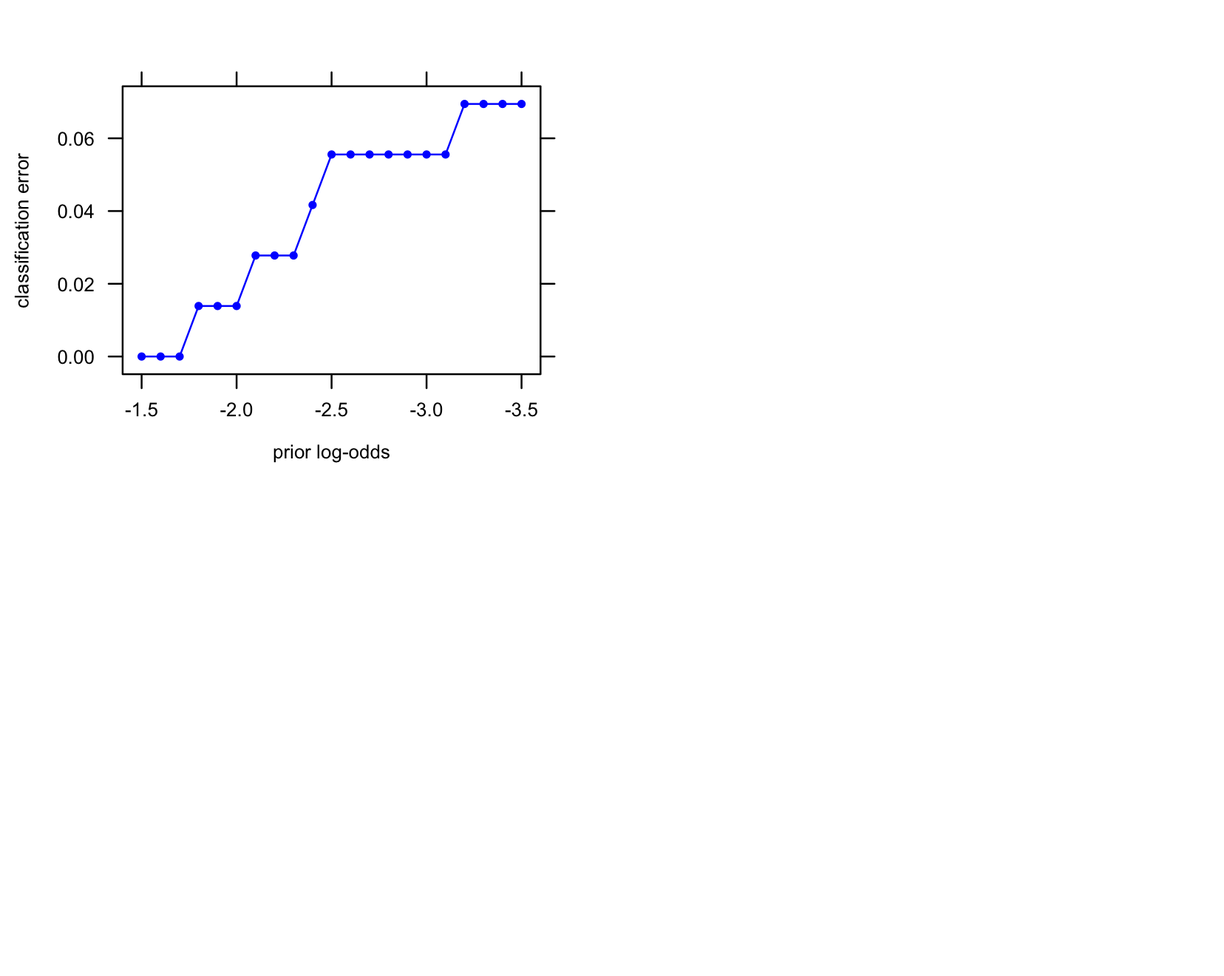
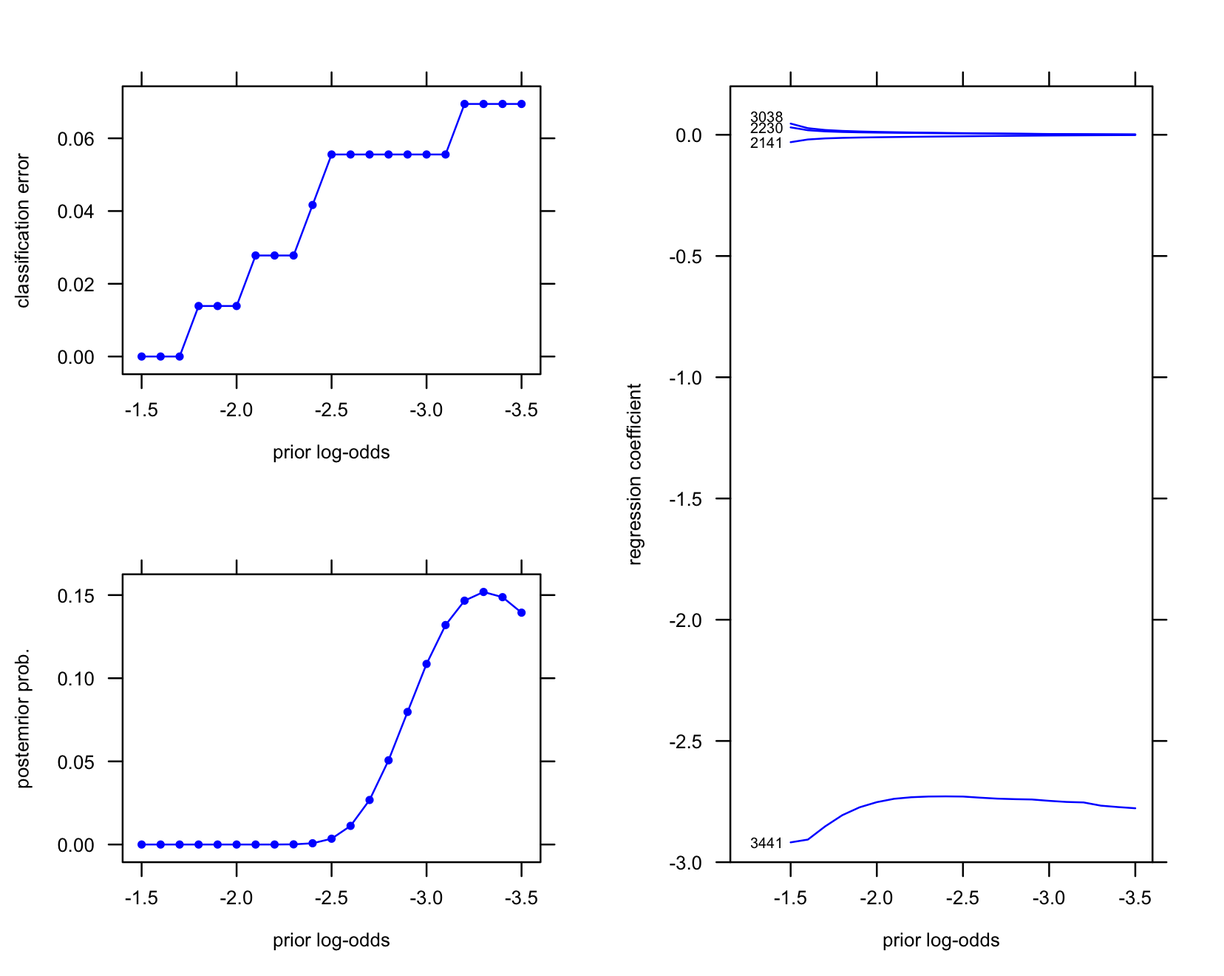
Revised R package README; updated pkgdown docs.
Former-commit-id: 78b0ad3b4a93aca786200dbd283432f8c50e1f9a

diff --git a/varbvs-R/docs/articles/leukemia.html b/varbvs-R/docs/articles/leukemia.html
@@ -56,34 +56,27 @@
     <div class="page-header toc-ignore">
       <h1>Comparison of glmnet and varbvs in Leukemia data set</h1>
             
-            <h4 class="date">2017-04-04</h4>
+            <h4 class="date">2017-04-30</h4>
           </div>
 
     
     
 <div class="contents">
-<p>This vignette demonstrates application of <strong>glmnet</strong> and <strong>varbvs</strong> to the Leukemia data set. The main aim of this script is to illustrate some of the different properties of Bayesian variable selection and penalized sparse regression (as implemented by <strong>varbvs</strong> and <strong>glmnet</strong>, respectively). This script also reproduces the results and graphs presented in the first example of a forthcoming paper (Carbonetto <em>et al</em>, 2016).</p>
+<p>This vignette demonstrates application of <strong>glmnet</strong> and <strong>varbvs</strong> to the Leukemia data set. The main aim of this script is to illustrate some of the different properties of Bayesian variable selection and penalized sparse regression (as implemented by <strong>varbvs</strong> and <strong>glmnet</strong>, respectively).</p>
 <p>We use the preprocessed data of Dettling (2004) retrieved from the supplementary materials accompanying Friedman <em>et al</em> (2010). The data are represented as a 72 x 3,571 matrix of gene expression values (variable <code>X</code>), and a vector of 72 binary disease outcomes (variable <code>y</code>).</p>
-<div id="references" class="section level3">
-<h3 class="hasAnchor">
-<a href="#references" class="anchor"></a>References</h3>
-<p>Carbonetto, P., <em>et al</em> (2016) Fast variable selection for genome-wide association studies and other large-scale regression applications. <em>Forthcoming</em>.</p>
-<p>Dettling, M. (2004). BagBoosting for tumor classification with gene expression data. <em>Bioinformatics</em> <strong>20</strong>, 3583–3593.</p>
-<p>Friedman, J., Hastie, T., Tibshirani, R. (2010) Regularization paths for generalized linear models via coordinate descent. <em>Journal of Statistical Software</em> <strong>33</strong>, 1–22.</p>
-</div>
 <div id="vignette-parameters" class="section level2">
 <h2 class="hasAnchor">
 <a href="#vignette-parameters" class="anchor"></a>Vignette parameters</h2>
-<p>Begin by loading a few packages into the R environment.</p>
+<p>Begin by loadingthese packages into your R environment.</p>
 <div class="sourceCode"><pre class="sourceCode r"><code class="sourceCode r"><span class="kw">library</span>(lattice)
 <span class="kw">library</span>(latticeExtra)
 <span class="kw">library</span>(glmnet)
 <span class="kw">library</span>(varbvs)</code></pre></div>
 <p>Next, specify settings that control the data analyses.</p>
 <div class="sourceCode"><pre class="sourceCode r"><code class="sourceCode r"><span class="co"># glmnet settings.</span>
-nfolds &lt;-<span class="st"> </span><span class="dv">20</span>                   <span class="co"># Number of cross-validation folds.</span>
-alpha  &lt;-<span class="st"> </span><span class="fl">0.95</span>                 <span class="co"># Elastic net mixing parameter.</span>
-lambda &lt;-<span class="st"> </span><span class="dv">10</span>^(<span class="kw">seq</span>(-<span class="dv">2</span>,<span class="dv">0</span>,<span class="fl">0.05</span>))  <span class="co"># Lambda sequence.</span>
+nfolds &lt;-<span class="st"> </span><span class="dv">20</span>                    <span class="co"># Number of cross-validation folds.</span>
+alpha  &lt;-<span class="st"> </span><span class="fl">0.95</span>                  <span class="co"># Elastic net mixing parameter.</span>
+lambda &lt;-<span class="st"> </span><span class="dv">10</span>^(<span class="kw">seq</span>(<span class="dv">0</span>,-<span class="dv">2</span>,-<span class="fl">0.05</span>))  <span class="co"># Lambda sequence.</span>
 
 <span class="co"># varbvs settings.</span>
 logodds &lt;-<span class="st"> </span><span class="kw">seq</span>(-<span class="fl">3.5</span>,-<span class="fl">1.5</span>,<span class="fl">0.1</span>)  <span class="co"># Candidate prior log-odds settings.</span>
@@ -107,7 +100,7 @@ y &lt;-<span class="st"> </span>leukemia$y
 r &lt;-<span class="st"> </span><span class="kw">system.time</span>(fit.glmnet &lt;-
 <span class="st">       </span><span class="kw">glmnet</span>(X,y,<span class="dt">family =</span> <span class="st">"binomial"</span>,<span class="dt">lambda =</span> lambda,<span class="dt">alpha =</span> alpha))
 <span class="kw">cat</span>(<span class="kw">sprintf</span>(<span class="st">"Model fitting took %0.2f seconds.</span><span class="ch">\n</span><span class="st">"</span>,r[<span class="st">"elapsed"</span>]))
-<span class="co"># Model fitting took 0.08 seconds.</span>
+<span class="co"># Model fitting took 0.09 seconds.</span>
 
 <span class="co"># This is the cross-validation step.</span>
 r &lt;-<span class="st"> </span><span class="kw">system.time</span>(out.cv.glmnet &lt;-
@@ -115,7 +108,7 @@ r &lt;-<span class="st"> </span><span class="kw">system.time</span>(out.cv.glmne
                  <span class="dt">alpha =</span> alpha,<span class="dt">nfolds =</span> nfolds,<span class="dt">lambda =</span> lambda))
 lambda &lt;-<span class="st"> </span>out.cv.glmnet$lambda
 <span class="kw">cat</span>(<span class="kw">sprintf</span>(<span class="st">"Cross-validation took %0.2f seconds.</span><span class="ch">\n</span><span class="st">"</span>,r[<span class="st">"elapsed"</span>]))
-<span class="co"># Cross-validation took 2.37 seconds.</span>
+<span class="co"># Cross-validation took 3.85 seconds.</span>
 
 <span class="co"># Choose the largest value of lambda that is within 1 standard error</span>
 <span class="co"># of the smallest misclassification error.</span>
@@ -222,7 +215,7 @@ Y       &lt;-<span class="st"> </span><span class="kw">predict</span>(fit.glmnet
 <div class="sourceCode"><pre class="sourceCode r"><code class="sourceCode r">r &lt;-<span class="st"> </span><span class="kw">system.time</span>(fit.varbvs &lt;-
 <span class="st">       </span><span class="kw"><a href="../reference/varbvs.html">varbvs</a></span>(X,<span class="ot">NULL</span>,y,<span class="st">"binomial"</span>,<span class="dt">logodds =</span> logodds,<span class="dt">sa =</span> sa,<span class="dt">verbose =</span> <span class="ot">FALSE</span>))
 <span class="kw">cat</span>(<span class="kw">sprintf</span>(<span class="st">"Model fitting took %0.2f seconds.</span><span class="ch">\n</span><span class="st">"</span>,r[<span class="st">"elapsed"</span>]))
-<span class="co"># Model fitting took 27.78 seconds.</span></code></pre></div>
+<span class="co"># Model fitting took 40.95 seconds.</span></code></pre></div>
 <p>Compute the normalized importance weights and the posterior inclusion probabilities averaged over the hyperparameter settings.</p>
 <div class="sourceCode"><pre class="sourceCode r"><code class="sourceCode r">w   &lt;-<span class="st"> </span><span class="kw"><a href="../reference/normalizelogweights.html">normalizelogweights</a></span>(fit.varbvs$logw)
 pip &lt;-<span class="st"> </span><span class="kw">c</span>(fit.varbvs$alpha %*%<span class="st"> </span>w)</code></pre></div>
@@ -263,61 +256,49 @@ for (i in <span class="dv">1</span>:m) {
              <span class="dt">scales =</span> <span class="kw">list</span>(<span class="dt">x =</span> <span class="kw">list</span>(<span class="dt">limits =</span> <span class="kw">c</span>(-<span class="fl">1.4</span>,-<span class="fl">3.6</span>)))) +
 <span class="st">      </span><span class="kw">as.layer</span>(<span class="kw">xyplot</span>(y ~<span class="st"> </span>x,<span class="kw">data.frame</span>(<span class="dt">x =</span> logodds,<span class="dt">y =</span> err),
                       <span class="dt">col =</span> <span class="st">"blue"</span>,<span class="dt">pch =</span> <span class="dv">20</span>,<span class="dt">cex =</span> <span class="fl">0.65</span>)),
-      <span class="dt">split =</span> <span class="kw">c</span>(<span class="dv">1</span>,<span class="dv">1</span>,<span class="dv">2</span>,<span class="dv">2</span>),<span class="dt">more =</span> <span class="ot">TRUE</span>)</code></pre></div>
-<div class="figure" style="text-align: center">
-<img src="leukemia_files/figure-html/unnamed-chunk-11-1.png" alt="&amp;nbsp;" width="828"><p class="caption">
- 
-</p>
-</div>
-<div class="sourceCode"><pre class="sourceCode r"><code class="sourceCode r"><span class="co"># Plot regression coefficients.</span>
+      <span class="dt">split =</span> <span class="kw">c</span>(<span class="dv">1</span>,<span class="dv">1</span>,<span class="dv">2</span>,<span class="dv">2</span>),<span class="dt">more =</span> <span class="ot">TRUE</span>)
+
+<span class="co"># Plot regression coefficients.</span>
 n     &lt;-<span class="st"> </span><span class="dv">4</span>
 m     &lt;-<span class="st"> </span><span class="kw">length</span>(logodds)
 vars  &lt;-<span class="st"> </span><span class="kw">order</span>(pip,<span class="dt">decreasing =</span> <span class="ot">TRUE</span>)[<span class="dv">1</span>:n]
 mu    &lt;-<span class="st"> </span><span class="kw">t</span>(fit.varbvs$alpha[vars,] *<span class="st"> </span>fit.varbvs$mu[vars,])
-<span class="kw">print</span>(<span class="kw">xyplot</span>(y ~<span class="st"> </span>x,<span class="kw">data.frame</span>(<span class="dt">x =</span> logodds,<span class="dt">y =</span> (mu[,<span class="dv">1</span>])),
+ly    &lt;-<span class="st"> </span>mu[m,]
+ly[<span class="dv">2</span>] &lt;-<span class="st"> </span><span class="fl">0.075</span>
+r &lt;-<span class="st"> </span><span class="kw">xyplot</span>(y ~<span class="st"> </span>x,<span class="kw">data.frame</span>(<span class="dt">x =</span> logodds,<span class="dt">y =</span> (mu[,<span class="dv">1</span>])),
              <span class="dt">type =</span> <span class="st">"l"</span>,<span class="dt">col =</span> <span class="st">"blue"</span>,<span class="dt">xlab =</span> <span class="st">"prior log-odds"</span>,
              <span class="dt">ylab =</span> <span class="st">"regression coefficient"</span>,
              <span class="dt">scales =</span> <span class="kw">list</span>(<span class="dt">x =</span> <span class="kw">list</span>(<span class="dt">limits =</span> <span class="kw">c</span>(-<span class="fl">1.15</span>,-<span class="fl">3.6</span>)),
-                           <span class="dt">y =</span> <span class="kw">list</span>(<span class="dt">limits=</span><span class="kw">c</span>(-<span class="dv">3</span>,-<span class="fl">2.5</span>),<span class="dt">at=</span><span class="kw">seq</span>(-<span class="dv">3</span>,-<span class="fl">2.5</span>,<span class="fl">0.25</span>))),
+                            <span class="dt">y =</span> <span class="kw">list</span>(<span class="dt">limits=</span><span class="kw">c</span>(-<span class="dv">3</span>,<span class="fl">0.2</span>),<span class="dt">at=</span><span class="kw">seq</span>(-<span class="dv">3</span>,<span class="fl">0.2</span>,<span class="fl">0.5</span>))),
              <span class="dt">panel =</span> function(x, y, ...) {
                <span class="kw">panel.xyplot</span>(x,y,...);
-               <span class="kw">ltext</span>(<span class="dt">x =</span> -<span class="fl">1.5</span>,<span class="dt">y =</span> mu[m,<span class="dv">1</span>],
-                     <span class="dt">labels =</span> vars[<span class="dv">1</span>],<span class="dt">pos =</span> <span class="dv">2</span>,
-                     <span class="dt">offset =</span> <span class="fl">0.5</span>,<span class="dt">cex =</span> <span class="fl">0.5</span>)
-               }),
-      <span class="dt">split =</span> <span class="kw">c</span>(<span class="dv">2</span>,<span class="dv">2</span>,<span class="dv">2</span>,<span class="dv">2</span>),<span class="dt">more =</span> <span class="ot">TRUE</span>)
-
-r    &lt;-<span class="st"> </span><span class="kw">xyplot</span>(y ~<span class="st"> </span>x,<span class="kw">data.frame</span>(<span class="dt">x =</span> logodds,<span class="dt">y =</span> (mu[,<span class="dv">2</span>])),
-               <span class="dt">type =</span> <span class="st">"l"</span>,<span class="dt">col =</span> <span class="st">"blue"</span>,<span class="dt">xlab =</span> <span class="st">"prior log-odds"</span>,
-               <span class="dt">ylab =</span> <span class="st">"regression coefficient"</span>,
-               <span class="dt">scales =</span> <span class="kw">list</span>(<span class="dt">x =</span> <span class="kw">list</span>(<span class="dt">limits =</span> <span class="kw">c</span>(-<span class="fl">1.15</span>,-<span class="fl">3.6</span>)),
-                             <span class="dt">y =</span> <span class="kw">list</span>(<span class="dt">limits =</span> <span class="kw">c</span>(-<span class="fl">0.06</span>,<span class="fl">0.06</span>),
-                                      <span class="dt">at =</span> <span class="kw">c</span>(-<span class="fl">0.06</span>,<span class="dv">0</span>,<span class="fl">0.06</span>))),
-               <span class="dt">panel =</span> function(x, y, ...) {
-                 <span class="kw">panel.xyplot</span>(x,y,...);
-                 <span class="kw">ltext</span>(<span class="dt">x =</span> -<span class="fl">1.5</span>,<span class="dt">y =</span> mu[m,],
-                       <span class="dt">labels =</span> vars,<span class="dt">pos =</span> <span class="dv">2</span>,
-                       <span class="dt">offset =</span> <span class="fl">0.5</span>,<span class="dt">cex =</span> <span class="fl">0.5</span>)
-               })
-for (i in <span class="dv">3</span>:n) {
+               <span class="kw">ltext</span>(<span class="dt">x =</span> -<span class="fl">1.5</span>,<span class="dt">y =</span> ly,<span class="dt">labels =</span> vars,<span class="dt">pos =</span> <span class="dv">2</span>,<span class="dt">offset =</span> <span class="fl">0.5</span>,
+                     <span class="dt">cex =</span> <span class="fl">0.5</span>)
+             })
+for (i in <span class="dv">2</span>:n)
   r &lt;-<span class="st"> </span>r +<span class="st"> </span><span class="kw">as.layer</span>(<span class="kw">xyplot</span>(y ~<span class="st"> </span>x,
                            <span class="kw">data.frame</span>(<span class="dt">x =</span> logodds,<span class="dt">y =</span> mu[,i]),
                            <span class="dt">type =</span> <span class="st">"l"</span>,<span class="dt">col =</span> <span class="st">"blue"</span>))
-}
-<span class="kw">print</span>(r,<span class="dt">split =</span> <span class="kw">c</span>(<span class="dv">2</span>,<span class="dv">1</span>,<span class="dv">2</span>,<span class="dv">2</span>),<span class="dt">more =</span> <span class="ot">TRUE</span>)
+<span class="kw">print</span>(r,<span class="dt">split =</span> <span class="kw">c</span>(<span class="dv">2</span>,<span class="dv">1</span>,<span class="dv">2</span>,<span class="dv">1</span>),<span class="dt">more =</span> <span class="ot">TRUE</span>)
 
-<span class="co"># Plot density of "prior log-odds"" hyperparameter.</span>
+<span class="co"># Plot density of "prior log-odds" hyperparameter.</span>
 <span class="kw">names</span>(w) &lt;-<span class="st"> </span>logodds
 <span class="kw">print</span>(<span class="kw">xyplot</span>(y ~<span class="st"> </span>x,<span class="kw">data.frame</span>(<span class="dt">x =</span> logodds,<span class="dt">y =</span> w),<span class="dt">type =</span> <span class="st">"l"</span>,<span class="dt">col =</span> <span class="st">"blue"</span>,
-             <span class="dt">xlab =</span> <span class="st">"prior log-odds"</span>,<span class="dt">ylab =</span> <span class="st">"posterior prob."</span>,
+             <span class="dt">xlab =</span> <span class="st">"prior log-odds"</span>,<span class="dt">ylab =</span> <span class="st">"postemrior prob."</span>,
              <span class="dt">scales =</span> <span class="kw">list</span>(<span class="dt">x =</span> <span class="kw">list</span>(<span class="dt">limits =</span> <span class="kw">c</span>(-<span class="fl">1.4</span>,-<span class="fl">3.6</span>)))) +
 <span class="st">      </span><span class="kw">as.layer</span>(<span class="kw">xyplot</span>(y ~<span class="st"> </span>x,<span class="kw">data.frame</span>(<span class="dt">x =</span> logodds,<span class="dt">y =</span> w),
                       <span class="dt">col =</span> <span class="st">"blue"</span>,<span class="dt">pch =</span> <span class="dv">20</span>,<span class="dt">cex =</span> <span class="fl">0.65</span>)),
       <span class="dt">split =</span> <span class="kw">c</span>(<span class="dv">1</span>,<span class="dv">2</span>,<span class="dv">2</span>,<span class="dv">2</span>),<span class="dt">more =</span> <span class="ot">FALSE</span>)</code></pre></div>
 <div class="figure" style="text-align: center">
-<img src="leukemia_files/figure-html/unnamed-chunk-12-1.png" alt="&amp;nbsp;" width="828"><p class="caption">
+<img src="leukemia_files/figure-html/unnamed-chunk-11-1.png" alt="&amp;nbsp;" width="828"><p class="caption">
  
 </p>
+</div>
+<div id="references" class="section level3">
+<h3 class="hasAnchor">
+<a href="#references" class="anchor"></a>References</h3>
+<p>Dettling, M. (2004). BagBoosting for tumor classification with gene expression data. <em>Bioinformatics</em> <strong>20</strong>, 3583–3593.</p>
+<p>Friedman, J., Hastie, T., Tibshirani, R. (2010) Regularization paths for generalized linear models via coordinate descent. <em>Journal of Statistical Software</em> <strong>33</strong>, 1–22.</p>
 </div>
 </div>
 </div>

diff --git a/varbvs-R/docs/index.html b/varbvs-R/docs/index.html
@@ -53,32 +53,27 @@
       
       </header><div class="row">
   <div class="contents col-md-9">
-    <div id="large-scale-bayesian-variable-selection-for-r" class="section level1">
+    <div id="varbvs-large-scale-bayesian-variable-selection-in-r" class="section level1">
 <div class="page-header"><h1 class="hasAnchor">
-<a href="#large-scale-bayesian-variable-selection-for-r" class="anchor"></a>Large-scale Bayesian variable selection for R</h1></div>
+<a href="#varbvs-large-scale-bayesian-variable-selection-in-r" class="anchor"></a>varbvs: large-scale Bayesian variable selection in R</h1></div>
 
-<div id="overview" class="section level3">
-<h3 class="hasAnchor">
-<a href="#overview" class="anchor"></a>Overview</h3>
-<p>We introduce <em>varbvs</em>, an R package for analysis of large-scale data sets using Bayesian variable selection methods. To facilitate application of Bayesian variable selection to a range of problems, the <em>varbvs</em> interface hides most of the complexities of modeling and optimization, while also providing many options for adaptation to range of applications. The <em>varbvs</em> software has been used to implement Bayesian variable selection for large problems with over a million variables and thousands of samples, including analysis of massive genome-wide data sets.</p>
-<p>The R package been tested by <a href="https://travis-ci.org/pcarbo/varbvs.svg?branch=master">Travis CI</a>, and the tests’ code coverage has been assessed by <a href="https://codecov.io/gh/pcarbo/varbvs">Codecov</a>.</p>
-</div>
+<p>See also the <a href="https://pcarbo.github.io/varbvs/varbvs-R/docs">varbvs R package website</a> generated using <a href="http://hadley.github.io/pkgdown">pkgdown</a>.</p>
 <div id="citing-varbvs" class="section level3">
 <h3 class="hasAnchor">
 <a href="#citing-varbvs" class="anchor"></a>Citing varbvs</h3>
 <p>If you find that this software is useful for your research project, please cite our paper:</p>
-<p>Carbonetto, P., and Stephens, M. (2012). Scalable variational inference for Bayesian variable selection in regression, and its accuracy in genetic association studies. <em>Bayesian Analysis</em> <strong>7</strong>, 73-108.</p>
+<p>Carbonetto, P. and Stephens, M. (2012). Scalable variational inference for Bayesian variable selection in regression, and its accuracy in genetic association studies. <em>Bayesian Analysis</em> <strong>7</strong>, 73-108.</p>
 </div>
 <div id="license" class="section level3">
 <h3 class="hasAnchor">
 <a href="#license" class="anchor"></a>License</h3>
-<p>Copyright (c) 2012-2016, Peter Carbonetto.</p>
+<p>Copyright (c) 2012-2017, Peter Carbonetto.</p>
 <p>The <em>varbvs</em> source code repository by <a href="http://github.com/pcarbo">Peter Carbonetto</a> is free software: you can redistribute it under the terms of the <a href="http://www.gnu.org/licenses/gpl.html">GNU General Public License</a>. All the files in this project are part of <em>varbvs</em>. This project is distributed in the hope that it will be useful, but <strong>without any warranty</strong>; without even the implied warranty of <strong>merchantability or fitness for a particular purpose</strong>. See file <a href="../LICENSE">LICENSE</a> for the full text of the license.</p>
 </div>
-<div id="installing-the-package" class="section level3">
+<div id="setup" class="section level3">
 <h3 class="hasAnchor">
-<a href="#installing-the-package" class="anchor"></a>Installing the package</h3>
-<p>To install the official release of the <em>varbvs</em> package available from CRAN (<a href="http://www.r-pkg.org/pkg/varbvs">link</a>), in R simply run:</p>
+<a href="#setup" class="anchor"></a>Setup</h3>
+<p>To install the <em>varbvs</em> CRAN release (<a href="http://www.r-pkg.org/pkg/varbvs">link</a>), in R run:</p>
 <div class="sourceCode"><pre class="sourceCode r"><code class="sourceCode r"><span class="kw">install.packages</span>(<span class="st">"varbvs"</span>)</code></pre></div>
 <p>Alternatively, you can to install the most up-to-date development version. The easiest way to accomplish this is using the <a href="http://www.r-pkg.org/pkg/devtools">devtools</a> package:</p>
 <div class="sourceCode"><pre class="sourceCode r"><code class="sourceCode r"><span class="kw">install.packages</span>(<span class="st">"devtools"</span>)
@@ -88,7 +83,7 @@
 <p>This subdirectory has all the necessary files to build and install a package for R. To install this package, follow the <a href="https://cran.r-project.org/doc/manuals/R-admin.html">standard instructions</a> for installing an R package from source. On a Unix or Unix-like platform (e.g., Mac OS X), the following steps should install the R package:</p>
 <div class="sourceCode"><pre class="sourceCode sh"><code class="sourceCode bash"><span class="fu">mv</span> varbvs-R varbvs
 <span class="ex">R</span> CMD build varbvs
-<span class="ex">R</span> CMD INSTALL varbvs_2.0.0.tar.gz</code></pre></div>
+<span class="ex">R</span> CMD INSTALL varbvs_2.0.9.tar.gz</code></pre></div>
 </div>
 <div id="using-the-package" class="section level3">
 <h3 class="hasAnchor">
@@ -109,12 +104,12 @@ fit &lt;-<span class="st"> </span><span class="kw"><a href="reference/varbvs.htm
 <div id="working-examples" class="section level3">
 <h3 class="hasAnchor">
 <a href="#working-examples" class="anchor"></a>Working examples</h3>
-<p>We have provided several R scripts in the <a href="vignettes" class="uri">vignettes</a> and <a href="tests" class="uri">tests</a> folders to illustrate application of <em>varbvs</em> to small and large data sets:</p>
+<p>We have provided several R scripts in the <a href="vignettes" class="uri">vignettes</a> and <a href="tests/testthat">testthat</a> folders to illustrate application of <em>varbvs</em> to small and large data sets:</p>
 <ul>
 <li><p>Script <a href="tests/testthat/demo.qtl.R">demo.qtl.R</a> demonstrates how to use the varbvs function for mapping a quantitative trait (<em>i.e.</em>, a continuously valued outcome) in a small, simulated data set. Script <a href="tests/testthat/demo.cc.R">demo.cc.R</a> demonstrates mapping of a binary valued outcome in a simulated data set.</p></li>
-<li><p>Script <a href="vignettes/demo.leukemia.R">demo.leukemia.R</a> demonstrates application of both <em>glmnet</em> and <em>varbvs</em> to the Leukemia data. The main aim of this script is to illustrate some of the different properties of <em>varbvs</em> (Bayesian variable selection) and <em>glmnet</em> (penalized sparse regression). This script also reproduces the results and graphs presented in the first example of Carbonetto <em>et al</em> (2016).</p></li>
-<li><p>Like demo.qtl.R, script <a href="vignettes/demo.cfw.R">demo.cfw.R</a> also demonstrates <em>varbvs</em> for mapping genetic factors contributing to a quantitative trait, but here it is applied to an actual data set generated from an outbred mouse study. Running this script with <code>trait = “testis”</code> reproduces the results and figures given in the second example of Carbonetto <em>et al</em> (2016).</p></li>
-<li><p>Finally, scripts <a href="vignettes/demo.cd.R">demo.cd.R</a> and <a href="vignettes/demo.cytokine.R">demo.cytokine.R</a> show how the <em>varbvs</em> package can be applied to a very large data set to map genetic loci and test biological hypotheses about genetic factors contributing to human disease risk. Although we cannot share the data needed to run these scripts due to data privacy restrictions, we have included these scripts because it is helpful to be able to follow the steps given in these R scripts. These scripts reproduce some of the results and figures presented in Carbonetto <em>et al</em> (2016).</p></li>
+<li><p>The <a href="vignettes/leukemia.Rmd">leukemia.Rmd</a> vignette demonstrates application of both <em>glmnet</em> and <em>varbvs</em> to the Leukemia data. The main aim of this script is to illustrate some of the different properties of <em>varbvs</em> (Bayesian variable selection) and <em>glmnet</em> (penalized sparse regression).</p></li>
+<li><p>Like <code>demo.qtl.R</code>, the <a href="vignettes/cfw.Rmd">cfw.Rmd</a> vignette demonstrates <em>varbvs</em> for mapping genetic factors contributing to a quantitative trait, but here it is applied to an actual data set generated from an outbred mouse study.</p></li>
+<li><p>Finally, the <a href="vignettes/cd.Rmd">cd.Rmd</a> and <a href="vignettes/cytokine.Rmd">cytokine.Rmd</a> vignettes illustrate how the <em>varbvs</em> package can be applied to a very large data set to map genetic loci and test biological hypotheses about genetic factors contributing to human disease risk. Although we cannot share the data needed to run these scripts due to data privacy restrictions, we have included these scripts because it is helpful to be able to follow the steps given in these R scripts.</p></li>
 </ul>
 </div>
 <div id="how-to-build-static-html-documentation" class="section level2">
@@ -123,11 +118,12 @@ fit &lt;-<span class="st"> </span><span class="kw"><a href="reference/varbvs.htm
 <p>These are the R commands to build the website (make sure you are connected to Internet while running these commands, and the working directory is set to <code>varbvs-R</code>):</p>
 <div class="sourceCode"><pre class="sourceCode r"><code class="sourceCode r"><span class="kw">library</span>(pkgdown)
 <span class="kw">build_site</span>(<span class="dt">mathjax =</span> <span class="ot">FALSE</span>)</code></pre></div>
+<p>Before building the website, move the <code>RcppExports.R</code> file temporarily outside the <code>R</code> directory, otherwise <code>build_site</code> will report an error. Once the pkgdown site is successfully built, move the <code>RcppExports.R</code> file back to its original location, overwriting the newly generated file.</p>
 <div id="credits" class="section level3">
 <h3 class="hasAnchor">
 <a href="#credits" class="anchor"></a>Credits</h3>
-<p>The <em>varbvs</em> software package was developed by:<br><a href="http://pcarbo.github.io">Peter Carbonetto</a><br> Dept. of Human Genetics, University of Chicago<br> and AncestryDNA, San Francisco, California<br> 2012-2016</p>
-<p>Xiang Zhou, Xiang Zhu and Matthew Stephens have also contributed to the development of this software.</p>
+<p>The <em>varbvs</em> software package was developed by:<br><a href="http://pcarbo.github.io">Peter Carbonetto</a><br> Dept. of Human Genetics, University of Chicago<br> 2012-2017</p>
+<p>Xiang Zhou, Xiang Zhu, Matthew Stephens and others have also contributed to the development of this software.</p>
 </div>
 </div>
 </div>
@@ -155,7 +151,8 @@ fit &lt;-<span class="st"> </span><span class="kw"><a href="reference/varbvs.htm
 <h2>Dev status</h2>
 <ul class="list-unstyled">
 <li><a href="https://cran.r-project.org/package=varbvs"><img src="http://www.r-pkg.org/badges/version/varbvs" alt="CRAN status badge"></a></li>
-<li><a href="https://travis-ci.org/pcarbo/varbvs"><img src="https://travis-ci.org/pcarbo/varbvs.svg?branch=master" alt="Build Status"></a></li>
+<li><a href="https://travis-ci.org/pcarbo/varbvs"><img src="https://travis-ci.org/pcarbo/varbvs.svg?branch=master" alt="Travis CI Build Status"></a></li>
+<li><a href="https://ci.appveyor.com/project/pcarbo/varbvs"><img src="https://ci.appveyor.com/api/projects/status/xqnqhsk5na3855nq?svg=true" alt="Appveyor Build status"></a></li>
 <li><a href="https://codecov.io/gh/pcarbo/varbvs"><img src="https://codecov.io/gh/pcarbo/varbvs/branch/master/graph/badge.svg" alt="codecov"></a></li>
 </ul>
 </div>

diff --git a/varbvs-R/docs/reference/varbvs.html b/varbvs-R/docs/reference/varbvs.html
@@ -107,10 +107,14 @@
     <tr>
       <th>Z</th>
       <td><p>n x m covariate data matrix, where m is the number of
-           covariates. Do not supply an intercept as a covariate
-           (i.e., a column of ones), because an intercept is
-           automatically included in the regression model. For no
-	   covariates, set <code>Z = NULL</code>.</p></td>
+           covariates. Do not supply an intercept as a covariate (i.e.,
+           a column of ones), because an intercept is automatically
+           included in the regression model. For no covariates, set
+           <code>Z = NULL</code>. The covariates are assigned an improper,
+           uniform prior. Although improper priors are generally not
+           advisable because they can result in improper posteriors and
+           Bayes factors, this choice allows us to easily integrate out
+           these covariates.</p></td>
     </tr>
     <tr>
       <th>y</th>
@@ -139,12 +143,15 @@
       <td><p>Hyperparameter sa is the prior variance of regression
     coefficients for variables that are included in the model. This
     prior variance is always scaled by sigma (for logistic regression,
-    we take sigma = 1). This input specifies the candidate settings for
-    sa, of the same length as inputs sigma and logodds (or have length
-    equal to the number of columns of logodds). If missing, prior
-    variance is automatically fitted to data by compute approximate
-    maximum (ML) estimates, or maximum a posteriori estimates when
-    <code>n0 &gt; 0</code> and <code>sa0 &gt; 0</code>.</p></td>
+    we take sigma = 1). Scaling the variance of the coefficients in this
+    way is necessary to ensure that this prior is invariant to
+    measurement scale (e.g., switching from grams to kilograms). This
+    input specifies the candidate settings for sa, of the same length as
+    inputs sigma and logodds (or have length equal to the number of
+    columns of logodds). If missing, prior variance is automatically
+    fitted to data by compute approximate maximum (ML) estimates, or
+    maximum a posteriori estimates when <code>n0 &gt; 0</code> and <code>sa0 &gt;
+    0</code>.</p></td>
     </tr>
     <tr>
       <th>logodds</th>
@@ -288,10 +295,33 @@
     fast computation with the logistic regression model <code>(family =
     "binomial")</code>. The fitted value of eta is returned as an n x ns
     matrix.</p>
-<p>Note that special care is required for interpreting the results of
-    the variational approximation with the logistic regression model. In
-    particular, interpretation of the individual estimates of the
-    regression coefficients (e.g., the posterior mean estimates
+<p>The variational estimates should be interpreted carefully,
+    especially when variables are strongly correlated. For example,
+    consider the simple scenario in which 2 candidate variables are
+    closely correlated, and at least one of them explains the outcome
+    with probability close to 1. Under the correct posterior
+    distribution, we would expect that each variable is included with
+    probability ~0.5. However, the variational approximation, due to the
+    conditional independence assumption, will typically get this wrong,
+    and concentrate most of the posterior weight on one variable (the
+    actual variable that is chosen will depend on the starting
+    conditions of the optimization). Although the individual PIPs are
+    incorrect, a statistic summarizing the variable selection for both
+    correlated variables (e.g., the total number of variables included
+    in the model) should be reasonably accurate.</p>
+<p>More generally, if variables can be reasonably grouped together
+    based on their correlations, we recommend interpreting the variable
+    selection results at a group level. For example, in genome-wide
+    association studies (see the vignettes) ,a SNP with a high PIP
+    indicates that this SNP is probably associated with the trait, and
+    one or more nearby SNPs within a chromosomal region, or ``locus,''
+    may be associated as well. Therefore, we interpreted the GWAS
+    variable selection results at the level of loci, rather than at the
+    level of individual SNPs.
+    Also note that special care is required for interpreting the results
+    of the variational approximation with the logistic regression
+    model. In particular, interpretation of the individual estimates of
+    the regression coefficients (e.g., the posterior mean estimates
     <code>fit$mu</code>) is not straightforward due to the additional
     approximation introduced on the individual nonlinear factors in the
     likelihood. As a general guideline, only the relative magnitudes of
@@ -327,7 +357,6 @@
     
     <h2 class="hasAnchor" id="prior-on-proportion-of-variance-explained"><a class="anchor" href="#prior-on-proportion-of-variance-explained"></a>Prior on proportion of variance explained</h2>
 
-    
     <p>Specifying the prior variance of the regression coefficients (sa) can
   be difficult, which is why we have included the option of fitting this
   hyperparameter to the data (see input argument <code>update.sa</code>

diff --git a/varbvs-R/docs/articles/cytokine.html b/varbvs-R/docs/articles/cytokine.html
@@ -56,7 +56,7 @@
     <div class="page-header toc-ignore">
       <h1>Assessing support for gene sets in disease using varbvs</h1>
             
-            <h4 class="date">2017-04-04</h4>
+            <h4 class="date">2017-04-30</h4>
           </div>
 
     

diff --git a/varbvs-R/docs/articles/cfw.html b/varbvs-R/docs/articles/cfw.html
@@ -56,7 +56,7 @@
     <div class="page-header toc-ignore">
       <h1>Mapping QTLs in outbred mice using varbvs</h1>
             
-            <h4 class="date">2017-04-04</h4>
+            <h4 class="date">2017-04-30</h4>
           </div>
 
     

diff --git a/varbvs-R/docs/articles/cd.html b/varbvs-R/docs/articles/cd.html
@@ -56,7 +56,7 @@
     <div class="page-header toc-ignore">
       <h1>Mapping disease risk loci using varbvs</h1>
             
-            <h4 class="date">2017-04-04</h4>
+            <h4 class="date">2017-04-30</h4>
           </div>
 
     

diff --git a/varbvs-R/README.md b/varbvs-R/README.md
@@ -5,6 +5,10 @@
 [![Appveyor Build status](https://ci.appveyor.com/api/projects/status/xqnqhsk5na3855nq?svg=true)](https://ci.appveyor.com/project/pcarbo/varbvs)
 [![codecov](https://codecov.io/gh/pcarbo/varbvs/branch/master/graph/badge.svg)](https://codecov.io/gh/pcarbo/varbvs)
 
+See also the
+[varbvs R package website](https://pcarbo.github.io/varbvs/varbvs-R/docs)
+generated using [pkgdown](http://hadley.github.io/pkgdown).
+
 ### Citing varbvs
 
 If you find that this software is useful for your research project,
@@ -124,13 +128,14 @@ demonstrates *varbvs* for mapping genetic factors contributing to a
 quantitative trait, but here it is applied to an actual data set
 generated from an outbred mouse study.
 
-+ Finally, the [cd.Rmd](vignettes/cd.Rmd) and [cytokine.Rmd](cytokine.Rmd)
-vignettes illustrate how the *varbvs* package can be applied to a
-very large data set to map genetic loci and test biological hypotheses
-about genetic factors contributing to human disease risk. Although we
-cannot share the data needed to run these scripts due to data privacy
-restrictions, we have included these scripts because it is helpful to
-be able to follow the steps given in these R scripts.
++ Finally, the [cd.Rmd](vignettes/cd.Rmd) and
+[cytokine.Rmd](vignettes/cytokine.Rmd) vignettes illustrate how the
+*varbvs* package can be applied to a very large data set to map
+genetic loci and test biological hypotheses about genetic factors
+contributing to human disease risk. Although we cannot share the data
+needed to run these scripts due to data privacy restrictions, we have
+included these scripts because it is helpful to be able to follow the
+steps given in these R scripts.
 
 ## How to build static HTML documentation
 
